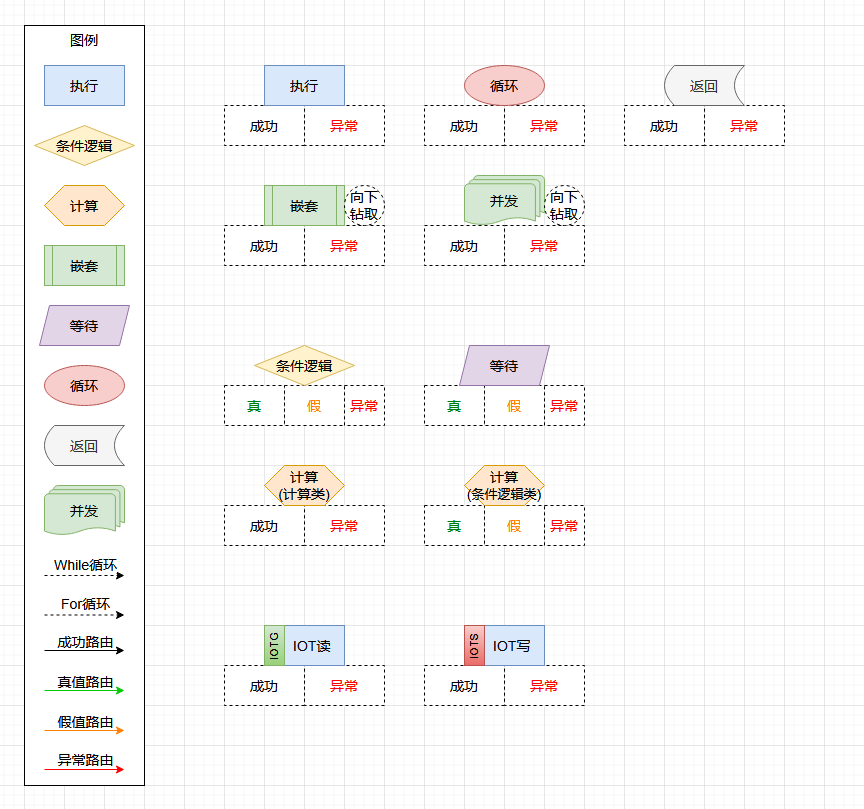
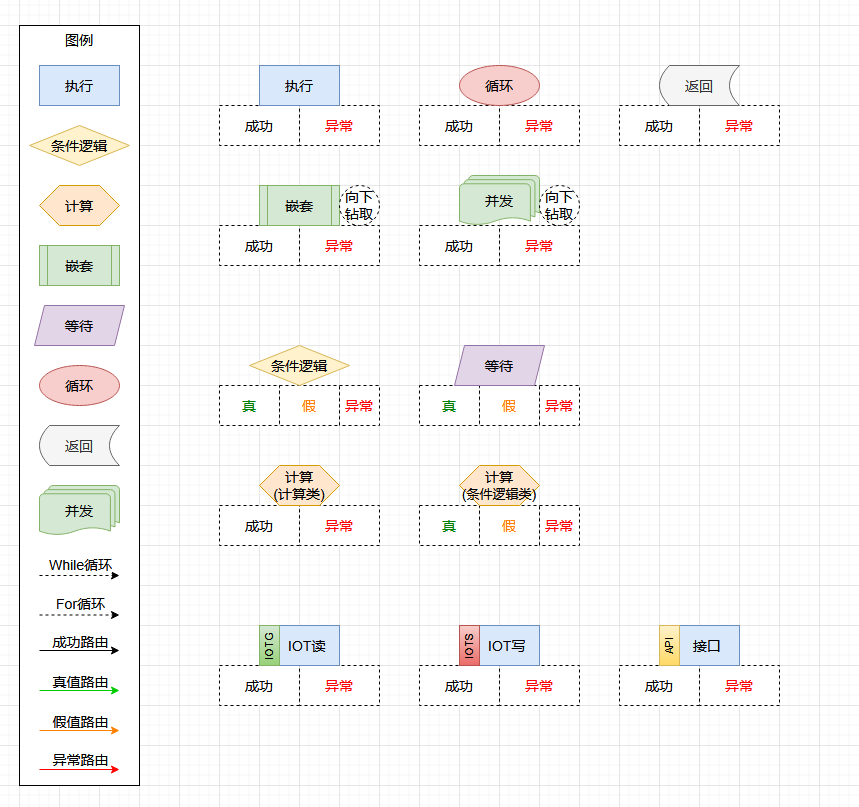
1.1.2
1. 添加：接口元素的演示用例

diff --git a/src/test/java/org/hy/common/callflow/junit/cflow019/JU_CFlow019.java b/src/test/java/org/hy/common/callflow/junit/cflow019/JU_CFlow019.java
@@ -1,4 +1,4 @@
-package org.hy.common.callflow.junit.cflow018;
+package org.hy.common.callflow.junit.cflow019;
 
 import java.util.HashMap;
 import java.util.Map;
@@ -9,8 +9,8 @@ import org.hy.common.Return;
 import org.hy.common.callflow.CallFlow;
 import org.hy.common.callflow.execute.ExecuteResult;
 import org.hy.common.callflow.junit.JUBase;
-import org.hy.common.callflow.junit.cflow018.program.Program;
-import org.hy.common.callflow.nesting.MTConfig;
+import org.hy.common.callflow.junit.cflow019.program.Program;
+import org.hy.common.callflow.node.APIConfig;
 import org.hy.common.xml.XJava;
 import org.hy.common.xml.annotation.XType;
 import org.hy.common.xml.annotation.Xjava;
@@ -23,22 +23,22 @@ import org.junit.runners.MethodSorters;
 
 
 /**
- * 测试单元：编排引擎018：并发元素
+ * 测试单元：编排引擎019：接口元素
  *
  * @author      ZhengWei(HY)
- * @createDate  2025-03-21
+ * @createDate  2025-04-03
  * @version     v1.0
  */
 @Xjava(value=XType.XML)
 @FixMethodOrder(MethodSorters.NAME_ASCENDING) 
-public class JU_CFlow018 extends JUBase
+public class JU_CFlow019 extends JUBase
 {
     
     private static boolean $isInit = false;
     
     
     
-    public JU_CFlow018() throws Exception
+    public JU_CFlow019() throws Exception
     {
         if ( !$isInit )
         {
@@ -50,36 +50,35 @@ public class JU_CFlow018 extends JUBase
     
     
     @Test
-    public void test_CFlow018()
+    public void test_CFlow019()
     {
-        test_CFlow018_Inner();
+        test_CFlow019_Inner();
         System.out.println("\n");
-        test_CFlow018_Inner();
+        test_CFlow019_Inner();
     }
     
     
     
-    private void test_CFlow018_Inner()
+    private void test_CFlow019_Inner()
     {
         // 初始化被编排的执行对象方法
         XJava.putObject("XProgram" ,new Program());
         
         // 获取编排中的首个元素
-        MTConfig            v_MT      = (MTConfig) XJava.getObject("XMT_CF018_1");
+        APIConfig           v_API     = (APIConfig) XJava.getObject("XAPI_CF019_1");
         Map<String ,Object> v_Context = new HashMap<String ,Object>();
         
-        v_Context.put("typeNameA" ,"A");
-        v_Context.put("typeNameB" ,"B");
+        v_Context.put("IP" ,"114.114.114.114");
         
         // 执行前的静态检查（关键属性未变时，check方法内部为快速检查）
-        Return<Object> v_CheckRet = CallFlow.getHelpCheck().check(v_MT);
+        Return<Object> v_CheckRet = CallFlow.getHelpCheck().check(v_API);
         if ( !v_CheckRet.get() )
         {
             System.out.println(v_CheckRet.getParamStr());  // 打印不合格的原因
             return;
         }
         
-        ExecuteResult v_Result = CallFlow.execute(v_MT ,v_Context);
+        ExecuteResult v_Result = CallFlow.execute(v_API ,v_Context);
         if ( v_Result.isSuccess() )
         {
             System.out.println("Success");
@@ -95,9 +94,9 @@ public class JU_CFlow018 extends JUBase
             v_Result.getException().printStackTrace();
         }
         
-        System.out.println("并发统一返回结果：" + v_Result.getResult());
-        System.out.println("返回值：AReturn=" + v_Context.get("AReturn"));
-        System.out.println("返回值：BReturn=" + v_Context.get("BReturn"));
+        System.out.println("API返回结果：" + v_Result.getResult());
+        System.out.println("返回值：IPRetA=" + v_Context.get("IPRetA"));
+        System.out.println("返回值：IPRetB=" + v_Context.get("IPRetB"));
         
         // 打印执行路径
         ExecuteResult v_FirstResult = CallFlow.getFirstResult(v_Context);
@@ -105,19 +104,10 @@ public class JU_CFlow018 extends JUBase
         System.out.println("整体用时：" + Date.toTimeLenNano(v_Result.getEndTime() - v_Result.getBeginTime()) + "\n");
         
         // 导出
-        System.out.println(CallFlow.getHelpExport().export(v_MT));
+        System.out.println(CallFlow.getHelpExport().export(v_API));
         
-        toJson(v_MT);
+        toJson(v_API);
         toJson(v_FirstResult);
-        
-        try
-        {
-            Thread.sleep(10 * 1000);
-        }
-        catch (Exception exce)
-        {
-            exce.printStackTrace();
-        }
     }
     
 }

diff --git a/README.md b/README.md
@@ -32,6 +32,7 @@
     * [返回元素的举例](#返回元素的举例)
     * [递归的举例](#递归的举例)
     * [并发元素的举例](#并发元素的举例)
+    * [接口元素的举例](#接口元素的举例)
 
 
 
@@ -89,11 +90,14 @@
         
         3.3 路由与循环可以组合后共存（12种），即：成功路由+For循环路由组成一条成功时For循环的路由。
         
-    4. 2种衍生元素。
+    4. 3种衍生元素。
     
         4.1. IOT读元素，衍生于执行元素，用于读取PLC数据。
         
         4.2. IOT写元素，衍生于执行元素，用于向PLC写入数据。
+        
+        4.3. 接口元素，衍生于执行元素，用于API接口请求访问。
+
 
 
 主要方法
@@ -228,6 +232,7 @@ __编排配置__
     <import name="xcalculate" class="org.hy.common.callflow.node.CalculateConfig" />
     <import name="xcondition" class="org.hy.common.callflow.ifelse.ConditionConfig" />
     <import name="xreturn"    class="org.hy.common.callflow.returns.ReturnConfig" />
+    <import name="xapi"       class="org.hy.common.callflow.node.APIConfig" />
     
     
     
@@ -301,6 +306,7 @@ __编排配置__
     <import name="xcalculate" class="org.hy.common.callflow.node.CalculateConfig" />
     <import name="xcondition" class="org.hy.common.callflow.ifelse.ConditionConfig" />
     <import name="xreturn"    class="org.hy.common.callflow.returns.ReturnConfig" />
+    <import name="xapi"       class="org.hy.common.callflow.node.APIConfig" />
     
     
     
@@ -422,6 +428,7 @@ __编排配置__
     <import name="xcalculate" class="org.hy.common.callflow.node.CalculateConfig" />
     <import name="xcondition" class="org.hy.common.callflow.ifelse.ConditionConfig" />
     <import name="xreturn"    class="org.hy.common.callflow.returns.ReturnConfig" />
+    <import name="xapi"       class="org.hy.common.callflow.node.APIConfig" />
     
     
     
@@ -611,6 +618,7 @@ __编排配置__
     <import name="xcalculate" class="org.hy.common.callflow.node.CalculateConfig" />
     <import name="xcondition" class="org.hy.common.callflow.ifelse.ConditionConfig" />
     <import name="xreturn"    class="org.hy.common.callflow.returns.ReturnConfig" />
+    <import name="xapi"       class="org.hy.common.callflow.node.APIConfig" />
     
     
     
@@ -719,6 +727,7 @@ __编排配置__
     <import name="xcalculate" class="org.hy.common.callflow.node.CalculateConfig" />
     <import name="xcondition" class="org.hy.common.callflow.ifelse.ConditionConfig" />
     <import name="xreturn"    class="org.hy.common.callflow.returns.ReturnConfig" />
+    <import name="xapi"       class="org.hy.common.callflow.node.APIConfig" />
     
     
     
@@ -828,6 +837,7 @@ __编排配置__
     <import name="xcalculate" class="org.hy.common.callflow.node.CalculateConfig" />
     <import name="xcondition" class="org.hy.common.callflow.ifelse.ConditionConfig" />
     <import name="xreturn"    class="org.hy.common.callflow.returns.ReturnConfig" />
+    <import name="xapi"       class="org.hy.common.callflow.node.APIConfig" />
     
     
     
@@ -994,6 +1004,7 @@ __编排配置__
     <import name="xcalculate" class="org.hy.common.callflow.node.CalculateConfig" />
     <import name="xcondition" class="org.hy.common.callflow.ifelse.ConditionConfig" />
     <import name="xreturn"    class="org.hy.common.callflow.returns.ReturnConfig" />
+    <import name="xapi"       class="org.hy.common.callflow.node.APIConfig" />
     
     
     
@@ -1121,6 +1132,7 @@ __编排配置__
     <import name="xcalculate" class="org.hy.common.callflow.node.CalculateConfig" />
     <import name="xcondition" class="org.hy.common.callflow.ifelse.ConditionConfig" />
     <import name="xreturn"    class="org.hy.common.callflow.returns.ReturnConfig" />
+    <import name="xapi"       class="org.hy.common.callflow.node.APIConfig" />
     
     
     
@@ -1267,6 +1279,7 @@ __编排配置__
     <import name="xcalculate" class="org.hy.common.callflow.node.CalculateConfig" />
     <import name="xcondition" class="org.hy.common.callflow.ifelse.ConditionConfig" />
     <import name="xreturn"    class="org.hy.common.callflow.returns.ReturnConfig" />
+    <import name="xapi"       class="org.hy.common.callflow.node.APIConfig" />
     
     
     
@@ -1332,6 +1345,7 @@ __编排配置__
     <import name="xcalculate" class="org.hy.common.callflow.node.CalculateConfig" />
     <import name="xcondition" class="org.hy.common.callflow.ifelse.ConditionConfig" />
     <import name="xreturn"    class="org.hy.common.callflow.returns.ReturnConfig" />
+    <import name="xapi"       class="org.hy.common.callflow.node.APIConfig" />
     
     
     
@@ -1410,6 +1424,7 @@ __编排配置__
     <import name="xcalculate" class="org.hy.common.callflow.node.CalculateConfig" />
     <import name="xcondition" class="org.hy.common.callflow.ifelse.ConditionConfig" />
     <import name="xreturn"    class="org.hy.common.callflow.returns.ReturnConfig" />
+    <import name="xapi"       class="org.hy.common.callflow.node.APIConfig" />
     
     
     
@@ -1533,6 +1548,7 @@ __编排配置__
     <import name="xcalculate" class="org.hy.common.callflow.node.CalculateConfig" />
     <import name="xcondition" class="org.hy.common.callflow.ifelse.ConditionConfig" />
     <import name="xreturn"    class="org.hy.common.callflow.returns.ReturnConfig" />
+    <import name="xapi"       class="org.hy.common.callflow.node.APIConfig" />
     
     
     
@@ -1648,6 +1664,7 @@ __编排配置__
     <import name="xcalculate" class="org.hy.common.callflow.node.CalculateConfig" />
     <import name="xcondition" class="org.hy.common.callflow.ifelse.ConditionConfig" />
     <import name="xreturn"    class="org.hy.common.callflow.returns.ReturnConfig" />
+    <import name="xapi"       class="org.hy.common.callflow.node.APIConfig" />
     
     
     
@@ -1755,6 +1772,7 @@ __编排配置__
     <import name="xcalculate" class="org.hy.common.callflow.node.CalculateConfig" />
     <import name="xcondition" class="org.hy.common.callflow.ifelse.ConditionConfig" />
     <import name="xreturn"    class="org.hy.common.callflow.returns.ReturnConfig" />
+    <import name="xapi"       class="org.hy.common.callflow.node.APIConfig" />
     
     
     
@@ -1868,6 +1886,7 @@ __编排配置__
     <import name="xcalculate" class="org.hy.common.callflow.node.CalculateConfig" />
     <import name="xcondition" class="org.hy.common.callflow.ifelse.ConditionConfig" />
     <import name="xreturn"    class="org.hy.common.callflow.returns.ReturnConfig" />
+    <import name="xapi"       class="org.hy.common.callflow.node.APIConfig" />
     
     
     
@@ -2011,6 +2030,7 @@ __编排配置__
     <import name="xcalculate" class="org.hy.common.callflow.node.CalculateConfig" />
     <import name="xcondition" class="org.hy.common.callflow.ifelse.ConditionConfig" />
     <import name="xreturn"    class="org.hy.common.callflow.returns.ReturnConfig" />
+    <import name="xapi"       class="org.hy.common.callflow.node.APIConfig" />
     
     
     
@@ -2166,6 +2186,7 @@ __编排配置__
     <import name="xcalculate" class="org.hy.common.callflow.node.CalculateConfig" />
     <import name="xcondition" class="org.hy.common.callflow.ifelse.ConditionConfig" />
     <import name="xreturn"    class="org.hy.common.callflow.returns.ReturnConfig" />
+    <import name="xapi"       class="org.hy.common.callflow.node.APIConfig" />
     
     
     
@@ -2243,6 +2264,7 @@ __编排配置__
     <import name="xcalculate" class="org.hy.common.callflow.node.CalculateConfig" />
     <import name="xcondition" class="org.hy.common.callflow.ifelse.ConditionConfig" />
     <import name="xreturn"    class="org.hy.common.callflow.returns.ReturnConfig" />
+    <import name="xapi"       class="org.hy.common.callflow.node.APIConfig" />
     
     
     
@@ -2379,6 +2401,105 @@ v_Context.put("typeNameB" ,"B");
 
 // 执行编排。返回执行结果       
 ExecuteResult       v_Result    = CallFlow.execute(v_MT ,v_Context);
+```
+
+
+
+接口元素的举例
+------
+
+[查看代码](src/test/java/org/hy/common/callflow/junit/cflow019) [返回目录](#目录)
+
+__编排图例演示__
+
+![image](src/test/java/org/hy/common/callflow/junit/cflow019/JU_CFlow019.png)
+
+__编排配置__
+
+```xml
+<?xml version="1.0" encoding="UTF-8"?>
+
+<config>
+
+    <import name="xconfig"    class="java.util.ArrayList" />
+    <import name="xmt"        class="org.hy.common.callflow.nesting.MTConfig" />
+    <import name="xnesting"   class="org.hy.common.callflow.nesting.NestingConfig" />
+    <import name="xfor"       class="org.hy.common.callflow.forloop.ForConfig" />
+    <import name="xnode"      class="org.hy.common.callflow.node.NodeConfig" />
+    <import name="xwait"      class="org.hy.common.callflow.node.WaitConfig" />
+    <import name="xcalculate" class="org.hy.common.callflow.node.CalculateConfig" />
+    <import name="xcondition" class="org.hy.common.callflow.ifelse.ConditionConfig" />
+    <import name="xreturn"    class="org.hy.common.callflow.returns.ReturnConfig" />
+    <import name="xapi"       class="org.hy.common.callflow.node.APIConfig" />
+    
+    
+    
+    <!-- CFlow编排引擎配置 -->
+    <xconfig>
+    
+        <xapi id="XAPI_CF019_1_1_1">
+            <comment>接口请求，转换响应结果</comment>
+            <url>http://ip-api.com/json/</url>              <!-- 定义接口请求URL地址 -->
+            <param>114.114.115.115</param>                  <!-- 定义URL地址固定参数 -->
+            <returnID>IPRetB</returnID>                     <!-- 定义接口返回结果变量名称 -->
+            <returnClass>java.util.Map</returnClass>        <!-- 定义接口返回结果转换为的类型 -->
+        </xapi>
+    
+    
+        <xnode id="XNode_CF019_1_1">
+            <comment>二次加工接口结果</comment>
+            <callXID>:XProgram</callXID>                    <!-- 定义执行对象 -->
+            <callMethod>method_Finish</callMethod>          <!-- 定义执行方法 -->
+            <callParam>
+                <valueClass>java.lang.String</valueClass>   <!-- 定义入参类型 -->
+                <value>:IPRet</value>                       <!-- 定义入参变量名称 -->
+            </callParam>
+            <callParam>
+                <valueClass>java.util.Map</valueClass>
+                <value>:IPRet</value>                       <!-- 相同变量名称，不同类型 -->
+            </callParam>
+            <route>
+                <succeed>                                   <!-- 成功时，关联后置节点 -->
+                    <next ref="XAPI_CF019_1_1_1" />
+                    <comment>成功时</comment>
+                </succeed>
+            </route>
+        </xnode>
+        
+    
+        <xapi id="XAPI_CF019_1">
+            <comment>接口请求</comment>
+            <url>http://ip-api.com/json/</url>              <!-- 定义接口请求URL地址 -->
+            <param>:IP</param>                              <!-- 定义URL地址参数变量名称 -->
+            <returnID>IPRetA</returnID>                     <!-- 定义接口返回结果变量名称 -->
+            <route>
+                <succeed>                                   <!-- 成功时，关联后置节点 -->
+                    <next ref="XNode_CF019_1_1" />
+                    <comment>成功时</comment>
+                </succeed>
+            </route>
+        </xapi>
+        
+    </xconfig>
+    
+</config>
+```
+
+__执行编排__
+
+```java
+// 初始化被编排的执行对象方法（按业务需要）
+XJava.putObject("XProgram" ,new Program());
+        
+// 获取编排中的首个元素
+APIConfig           v_API     = (APIConfig) XJava.getObject("XAPI_CF019_1");
+
+// 初始化上下文（可从中方便的获取中间运算信息，也可传NULL）
+Map<String ,Object> v_Context = new HashMap<String ,Object>();
+v_Context.put("IP" ,"114.114.114.114");
+
+// 执行编排。返回执行结果       
+ExecuteResult       v_Result    = CallFlow.execute(v_API ,v_Context);
 ```
 
 
